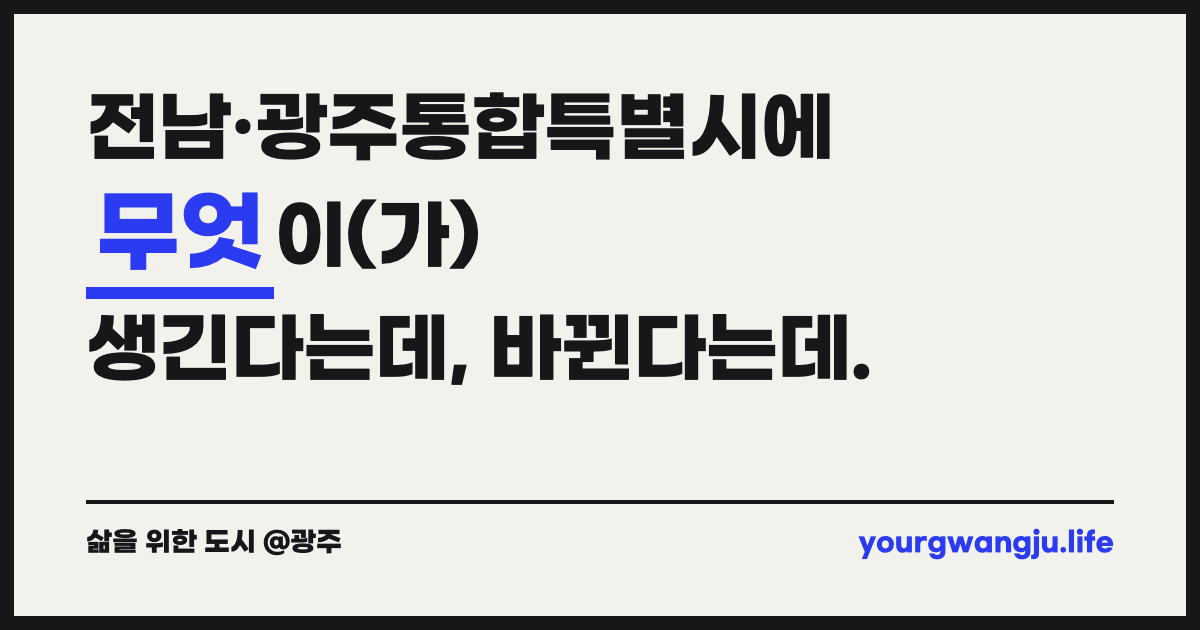
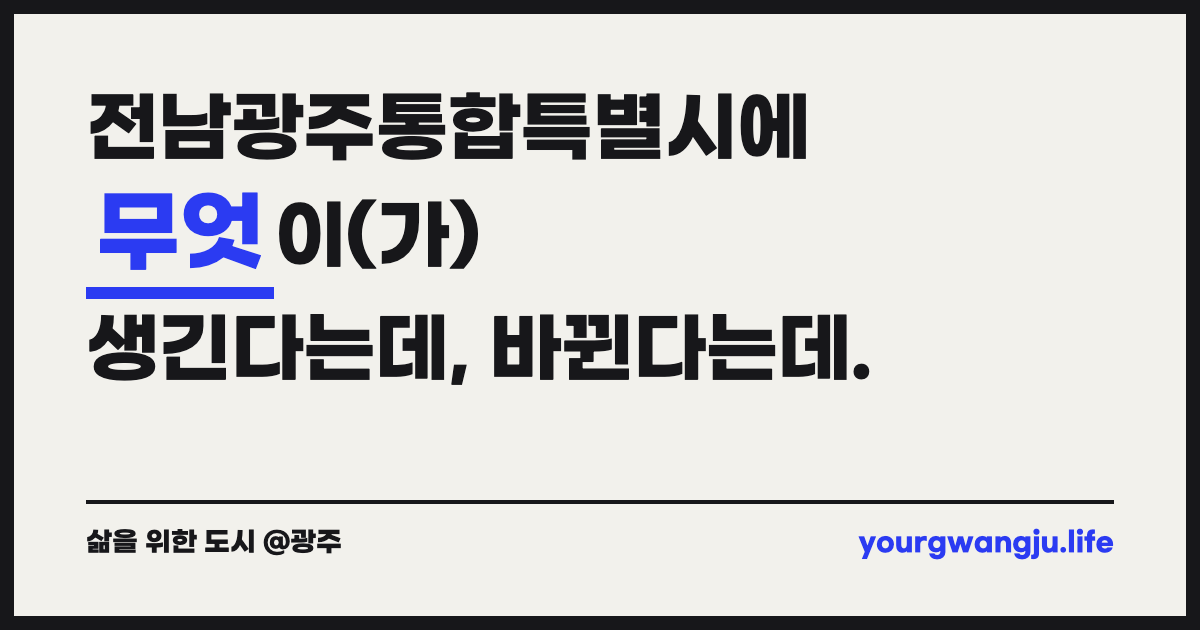
feat: 관리 표 빈칸 열 정렬, 표기 전남광주로 통일

Changed region(s): [[0.185, 0.1206, 0.7092, 0.2714]]

diff --git a/index.html b/index.html
@@ -4,9 +4,9 @@
 <meta charset="utf-8">
 <meta name="viewport" content="width=device-width, initial-scale=1">
 <title>생긴다는데 · 삶을 위한 도시 @광주</title>
-<meta name="description" content="전남·광주통합특별시에 무엇이 생긴다는데, 바뀐다는데. 그 말에 대한 나름의 답을 모읍니다.">
+<meta name="description" content="전남광주통합특별시에 무엇이 생긴다는데, 바뀐다는데. 그 말에 대한 나름의 답을 모읍니다.">
 <meta property="og:type" content="website">
-<meta property="og:title" content="전남·광주통합특별시에 '무엇'이 생긴다는데">
+<meta property="og:title" content="전남광주통합특별시에 '무엇'이 생긴다는데">
 <meta property="og:description" content="들어본 이야기를 적고, 나름의 답을 보태 주세요. 10월 1일 라운드테이블에서 함께 읽습니다.">
 <meta property="og:url" content="https://yourgwangju.life/">
 <meta property="og:image" content="https://yourgwangju.life/assets/og.png">
@@ -14,7 +14,7 @@
 <meta property="og:image:height" content="630">
 <meta name="twitter:card" content="summary_large_image">
 <link rel="stylesheet" href="https://cdn.jsdelivr.net/gh/orioncactus/pretendard@v1.3.9/dist/web/variable/pretendardvariable-dynamic-subset.min.css">
-<link rel="stylesheet" href="assets/style.css?v=6">
+<link rel="stylesheet" href="assets/style.css?v=7">
 </head>
 <body>
 <div class="wrap">
@@ -25,7 +25,7 @@
 
   <main>
     <form id="form" novalidate>
-      <h1 class="big-sentence">전남·광주통합특별시에<br>
+      <h1 class="big-sentence">전남광주통합특별시에<br>
         <input class="blank" id="thing" name="thing" type="text" maxlength="40"
                placeholder="무엇" autocomplete="off">이(가)
         <span class="verb-toggle" id="verb-toggle">
@@ -79,7 +79,7 @@
   </footer>
 </div>
 
-<script src="assets/config.js?v=6"></script>
-<script src="assets/form.js?v=6"></script>
+<script src="assets/config.js?v=7"></script>
+<script src="assets/form.js?v=7"></script>
 </body>
 </html>

diff --git a/admin.html b/admin.html
@@ -6,7 +6,7 @@
 <title>수집 관리 · 생긴다는데</title>
 <meta name="robots" content="noindex">
 <link rel="stylesheet" href="https://cdn.jsdelivr.net/gh/orioncactus/pretendard@v1.3.9/dist/web/variable/pretendardvariable-dynamic-subset.min.css">
-<link rel="stylesheet" href="assets/style.css?v=6">
+<link rel="stylesheet" href="assets/style.css?v=7">
 <style>
 .wrap { max-width: 1080px; }
 .admin-head { display: flex; align-items: baseline; gap: 16px; flex-wrap: wrap; margin-bottom: 24px; }
@@ -75,6 +75,9 @@ td.actions button:hover:not(:disabled) { border-color: var(--critic); color: var
 tr.hidden-row td.actions button:hover:not(:disabled) { border-color: var(--accent); color: var(--accent); }
 td.actions button:disabled { cursor: default; color: #b5afa4; }
 td.actions .ghlink { font-size: 12px; margin-left: 8px; color: var(--ink-soft); }
+th.sortable { cursor: pointer; user-select: none; }
+th.sortable:hover { color: var(--accent); }
+th.sortable #th-thing-dir { color: var(--accent); font-weight: 700; }
 .msg { min-height: 1.5em; font-size: 14px; margin: 12px 2px; }
 .msg.err { color: var(--critic); }
 .msg.ok { color: var(--accent); }
@@ -119,14 +122,14 @@ td.actions .ghlink { font-size: 12px; margin-left: 8px; color: var(--ink-soft); 
   <div class="table-scroll">
     <table>
       <thead>
-        <tr><th>시간</th><th>빈칸</th><th></th><th>지역</th><th>나름의 답</th><th>관리</th></tr>
+        <tr><th>시간</th><th class="sortable" id="th-thing" title="눌러서 가나다순 정렬">빈칸 <span id="th-thing-dir"></span></th><th></th><th>지역</th><th>나름의 답</th><th>관리</th></tr>
       </thead>
       <tbody id="rows"></tbody>
     </table>
   </div>
 </div>
 
-<script src="assets/config.js?v=6"></script>
-<script src="assets/admin.js?v=6"></script>
+<script src="assets/config.js?v=7"></script>
+<script src="assets/admin.js?v=7"></script>
 </body>
 </html>

diff --git a/assets/admin.js b/assets/admin.js
@@ -93,6 +93,16 @@
   var searchEl = document.getElementById("search");
   var filterEl = document.getElementById("filter");
 
+  // 빈칸 열 정렬: 클릭할 때마다 가나다순 → 역순 → 최신순(기본) 순환
+  var thingSort = null; // null | "asc" | "desc"
+  var thingTh = document.getElementById("th-thing");
+  var thingDir = document.getElementById("th-thing-dir");
+  thingTh.addEventListener("click", function () {
+    thingSort = thingSort === null ? "asc" : thingSort === "asc" ? "desc" : null;
+    thingDir.textContent = thingSort === "asc" ? "▲" : thingSort === "desc" ? "▼" : "";
+    renderRows();
+  });
+
   function renderStats() {
     var visible = entries.filter(function (e) { return !e.hidden; }).length;
     var byRegion = {};
@@ -124,6 +134,12 @@
       if (q && (e.thing + " " + e.answer).toLowerCase().indexOf(q) === -1) return false;
       return true;
     });
+    if (thingSort) {
+      shown.sort(function (a, b) {
+        var cmp = a.thing_normalized.localeCompare(b.thing_normalized, "ko");
+        return thingSort === "asc" ? cmp : -cmp;
+      });
+    }
     shown.forEach(function (e) {
       var tr = document.createElement("tr");
       if (e.hidden) tr.className = "hidden-row";

diff --git a/cloud.html b/cloud.html
@@ -5,7 +5,7 @@
 <meta name="viewport" content="width=device-width, initial-scale=1">
 <title>모인 말들 · 생긴다는데</title>
 <meta property="og:type" content="website">
-<meta property="og:title" content="모인 말들 · 전남·광주통합특별시에 무엇이 생긴다는데">
+<meta property="og:title" content="모인 말들 · 전남광주통합특별시에 무엇이 생긴다는데">
 <meta property="og:description" content="지금까지 모인 말들을 한눈에 봅니다.">
 <meta property="og:url" content="https://yourgwangju.life/cloud.html">
 <meta property="og:image" content="https://yourgwangju.life/assets/og.png">
@@ -142,7 +142,7 @@ header a:hover { background: var(--fg); color: var(--bg); }
 </aside>
 
 <script src="assets/vendor/d3.layout.cloud.js"></script>
-<script src="assets/config.js?v=6"></script>
-<script src="assets/cloud.js?v=6"></script>
+<script src="assets/config.js?v=7"></script>
+<script src="assets/cloud.js?v=7"></script>
 </body>
 </html>

diff --git a/assets/og-source.html b/assets/og-source.html
@@ -59,7 +59,7 @@ body {
 <body>
 <div class="card">
   <div class="headline">
-    전남·광주통합특별시에<br>
+    전남광주통합특별시에<br>
     <span class="blank">무엇</span>이(가)<br>
     생긴다는데, 바뀐다는데.
   </div>

diff --git a/README.md b/README.md
@@ -1,6 +1,6 @@
-# 생긴다는데 — 전남·광주 통합, 말들의 수집
+# 생긴다는데 — 전남광주 통합, 말들의 수집
 
-전남·광주가 합쳐지면 "___가 생긴다는데." 그 말들에 대한 나름의 답을 익명으로 모아,
+전남광주가 합쳐지면 "___가 생긴다는데." 그 말들에 대한 나름의 답을 익명으로 모아,
 2026년 10월 1일 라운드테이블에서 함께 읽기 위한 사이트.
 
 ## 구조
